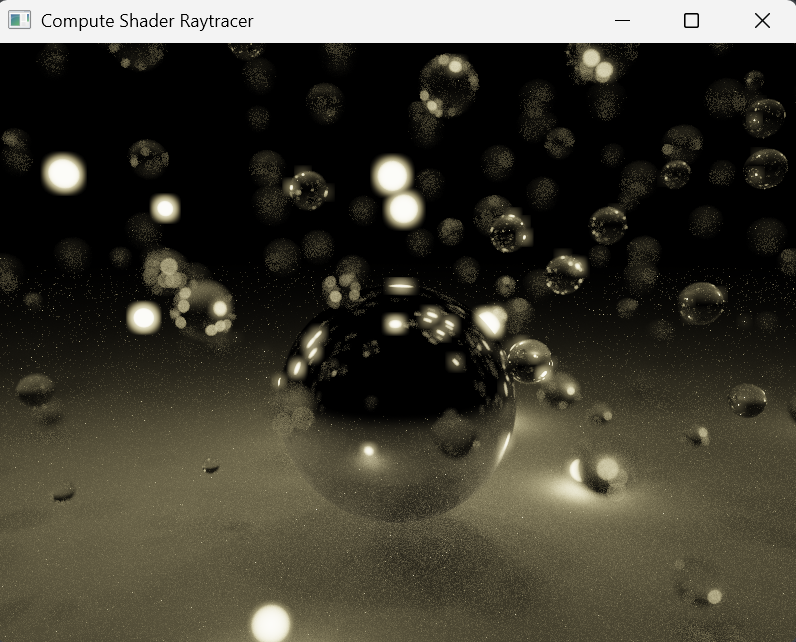
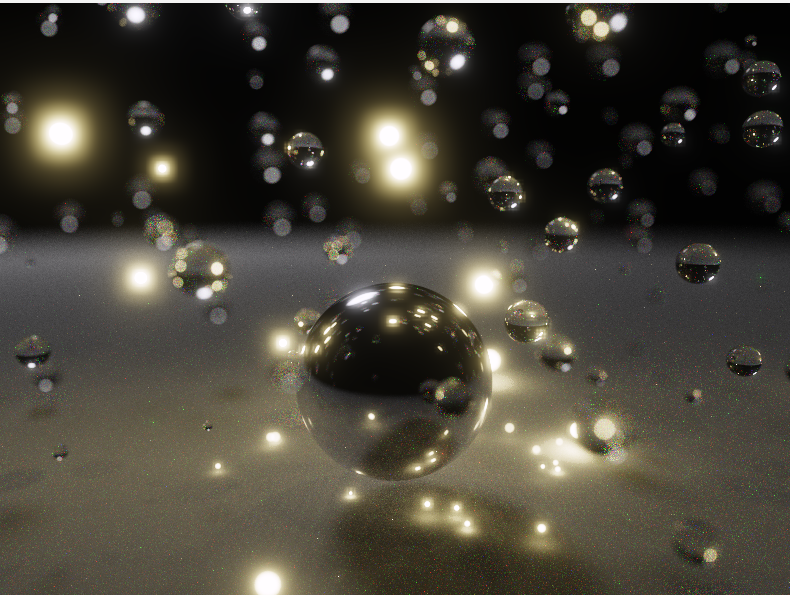
增加神经网络文章，并对一些文章的个格式进行了调整

diff --git a/src/config/footerConfig.ts b/src/config/footerConfig.ts
@@ -5,7 +5,7 @@ export const footerConfig: FooterConfig = {
 	enable: true, // 是否启用Footer HTML注入功能
 	customHtml: `
   <div style="display:flex;align-items:center;gap:6px;flex-wrap:wrap;justify-content:center;font-size:14px;">
-    <img src="public/备案图标.png" alt="公安备案图标" style="width:16px;height:16px;display:inline-block;vertical-align:middle;">
+    <img src="/备案图标.png" alt="公安备案图标" style="width:16px;height:16px;display:inline-block;vertical-align:middle;">
     <a href="https://beian.mps.gov.cn/#/query/webSearch?code=51010802033357" rel="noreferrer" target="_blank">川公网安备51010802033357号</a>
     <span style="color:#999;">|</span>
     <a href="https://beian.miit.gov.cn/" target="_blank" rel="noopener noreferrer">蜀ICP备2026040788号-2</a>

diff --git a/src/content/posts/初识神经网络.md b/src/content/posts/初识神经网络.md
@@ -1,0 +1,45 @@
+---
+title: 初识神经网络
+published: 2026-07-25
+pinned: true
+description: 本节主要是简单记录一下神经网络的一些基础知识，明白神经网络究竟是在干啥，我这里用到的框架是 PyTorch，学习目标是使用GPU学习Deep Learning、NeRF、3D Gaussian Splatting。
+tags: [DL, 神经网络]
+category: 技术
+draft: false
+---
+
+> [!NOTE]
+> 这是一篇个人向的笔记，如果你感兴趣，不妨查阅一些更加专业的文章交叉阅读。
+> **阅读前提**：请先了解 PyTorch、NumPy的基础数据概念。并配置好深度学习环境（问 AI 就行，我这里是 Miniconda + dl/nerf 双环境）。
+>
+
+训练神经网络要做的事情便是**给定一个输入，经过网络里一层层的计算（乘权重、加偏置），最终得到一个输出，我们每次训练都要让这个输出逼近那个正确的值**。  
+为了衡量离正确答案有多远，我们引入 Loss（损失值），最经典的就是均方误差（**平方确保偏差为正数，且放大偏差效应**）：
+
+$$
+Loss = (\text{预测值} - \text{真实值})^2
+$$
+
+高数告诉我们：如果知道 Loss 对每个参数（旋钮）的敏感程度（即梯度/偏导数），我们就可以顺着这个敏感程度的反方向去微调参数，让loss减小。
+
+## Autograd
+在真正的神经网络（比如 NeRF 的 8 层全连接层）里，我们要算“最终的 Loss”对“第一层第三个权重 $W$ 的敏感度，就要用到**链式求导法则**——把每一层对上一层的敏感度一路乘回去。PyTorch 提供了 **Autograd**避免我们手算，它让我们只管写前向传播（forward）的代码（一堆 Tensor 运算），反向求导（backward）PyTorch 全包。
+### 计算图——Autograd核心机制
+当我们做运算时，比如 `c = a + b`，PyTorch 在内存里画一张图：
+- 节点代表所有变量abc
+- 边表示运算。
+如果a被标记为参数，PyTorch 不但记录a参与了加法，还会记录加法的**反向求导公式**，方便backward。**叶节点**是计算图的起点，即我们亲自定义的那些参数。由于中间变量很多，PyTorch 做了一个极其高效的策略：  
+它只会把算出来的最终梯度，存放在叶节点（即定义的参数）的 .grad 属性里，至于中间变量的梯度直接丢弃以节约显存。
+
+### .backward()
+当我们算出loss后，调用 `loss.backward()`：
+- 开始先给出loss对自己的导数（即1），然后从Loss节点出发。
+- PyTorch 倒着走，先遇到生成loss的操作，查看其记录的反向求导操作，得到流向下一层的数据。
+- 如此，不断往上走，当遇到分叉时，分别计算不同分支的值，直到数据到达所有叶节点。把它们的敏感度存入 `.grad` 属性，至此，反向传播结束。
+
+> [!WARNING]
+>  1. PyTorch 的 **`backward()` 函数只能被标量调用**，如果输出是向量，正确做法是先对向量求和（`.sum()`）或求平均（`.mean()`），然后对其进行backward，这是 MSE Loss 的标准做法。**数学依据：和的导数等于导数的和**。
+>  2. PyTorch 算出的梯度是累加的，而不是覆盖的。这意味着，如果你在循环里连续调用两次 backward，梯度会变成两倍叠加。在每次反向传播前，必须手动调用 `optimizer.zero_grad()`
+>
+
+## 用MLP拟合sin(x)

diff --git a/src/content/posts/TAA.md b/src/content/posts/TAA.md
@@ -9,7 +9,7 @@ draft: false
 ---
 
 ## 回顾 SSAA 与 MSAA 
-**为什么要进行抗锯齿？**锯齿的来源是在于场景是在三维空间内定义的，它是可连续的状态，而输出的屏幕时是以一个离散的二维数组进行输出的，这便会引发一个问题：我们判断一个点是否被一个像素所覆盖变成了一个单纯“覆盖了”还是“没覆盖”的一个情况，连续的信息丢失，导致了锯齿出现。
+**为什么要进行抗锯齿**？ 锯齿的来源是在于场景是在三维空间内定义的，它是可连续的状态，而输出的屏幕时是以一个离散的二维数组进行输出的，这便会引发一个问题：我们判断一个点是否被一个像素所覆盖变成了一个单纯“覆盖了”还是“没覆盖”的情况，连续的信息丢失，导致了锯齿出现。
 
 ### SSAA
 超采样（SSAA）便是一个暴力抗锯齿的方法。拿4xSSAA为例，假设我们的输出屏幕大小 800x600，4xSSAA会先渲染到一个 1600x1200 的缓冲纹理上，再通过下采样到 800x600。也就是说我们将一个像素分成了四个小格子（**子像素采样，Sub-pixel**），对这四个小格子分别采样再做平均，便可以得到这个像素最终的输出颜色。这样做是数学上最完美的抗锯齿，只要采样率足够高，可以很好进行抗锯齿，但是缺点也很明显，因为一个像素相比原来的的计算量是4倍，占用的图像缓冲区（render target）也是四倍，在实时渲染中这样的代价高昂。由此我们可以进行 MSAA 采样。
@@ -18,7 +18,7 @@ draft: false
 多重采样（MSAA）的优化之处在于，它**只用对每个像素中心进行一次着色计算**，这个颜色结果会被该像素内所有被三角形覆盖的的子像素样本所共享（以 4xMSAA 举例，一个三角形的一条边把这个像素竖着分成左右两半，左边两个子像素被覆盖了，所以像素中心的着色计算结果给这两个被覆盖的子像素，而右边的两个子像素颜色为空，最后再将4个子像素颜色混合，得到该像素最终输出颜色）。这样一个像素只用计算一次，性能非常好。
 
 ## 从超采样到时间摊销
-TAA 相较于 SSAA，其优雅之处便在于**将单帧内昂贵的多子像素采样成本，分摊到连续的多帧之中**，在每一帧里我们对每一个像素进行一个采样，但采样点在像素内的位置是随机**抖动（Jitter）**的，这样，经过 $N$ 帧的累计，我们便可以获得与单帧 NxSSAA 等效的样本集。
+TAA 相较于 SSAA，其优雅之处便在于**将单帧内昂贵的多子像素采样成本，分摊到连续的多帧之中**，在每一帧里我们对每一个像素进行一个采样，但采样点在像素内的位置是随机**抖动（Jitter）** 的，这样，经过 $N$ 帧的累计，我们便可以获得与单帧 NxSSAA 等效的样本集。
 
 ### 采样点抖动：Halton 低差异序列
 每一帧的采样点需要在一个像素内均匀分布，才能保证累计效果的品质。在实践中，TAA通常会使用**Halton序列**等低差异序列来生成每一帧的抖动偏移量。  
